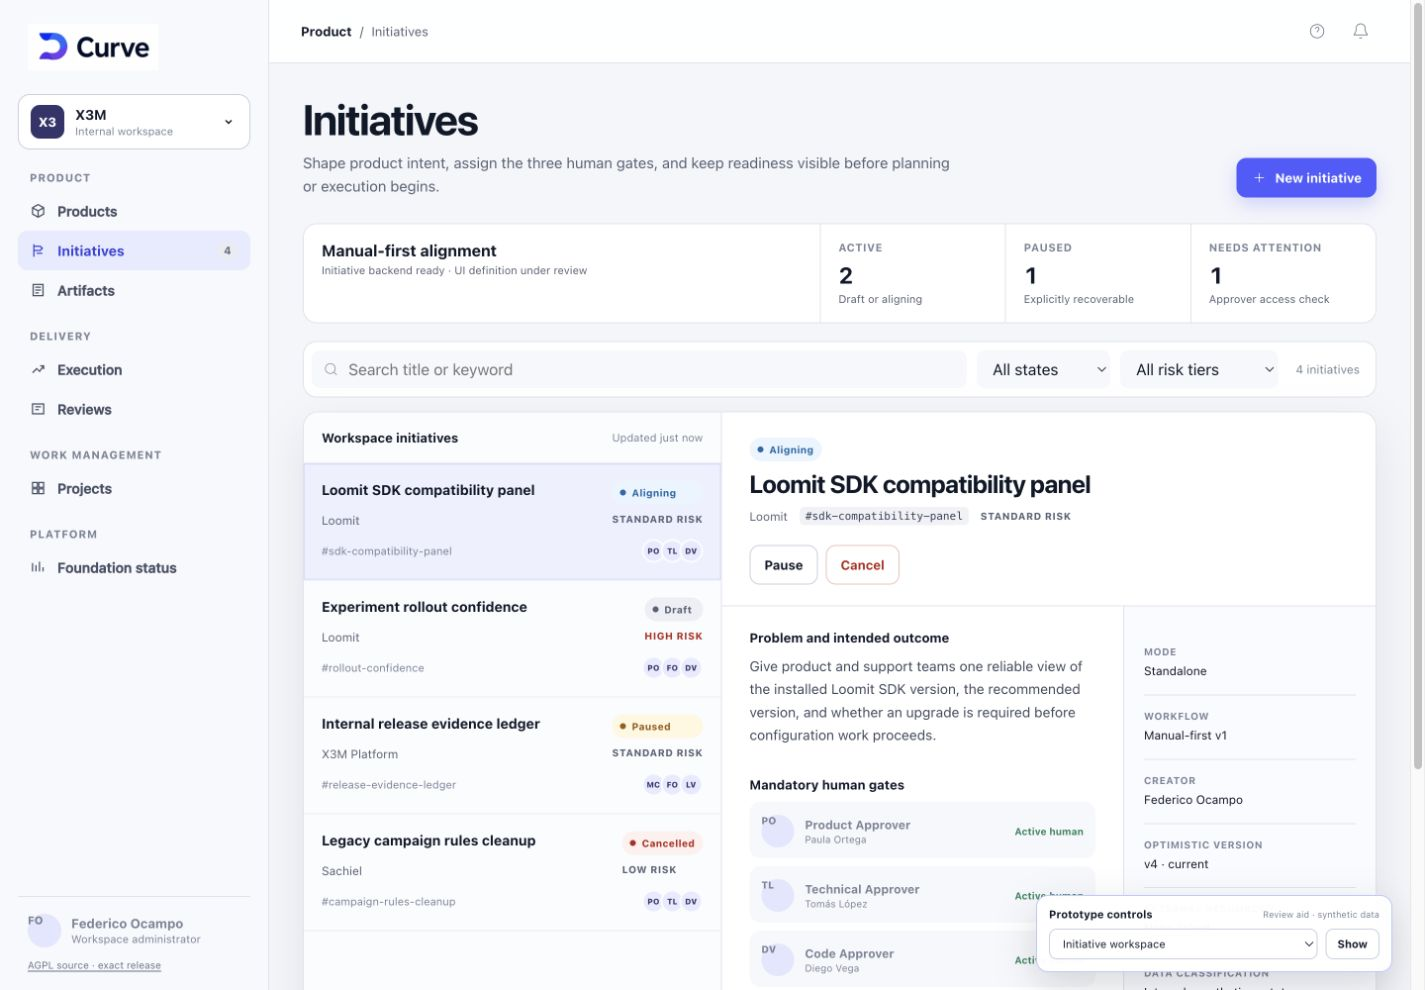
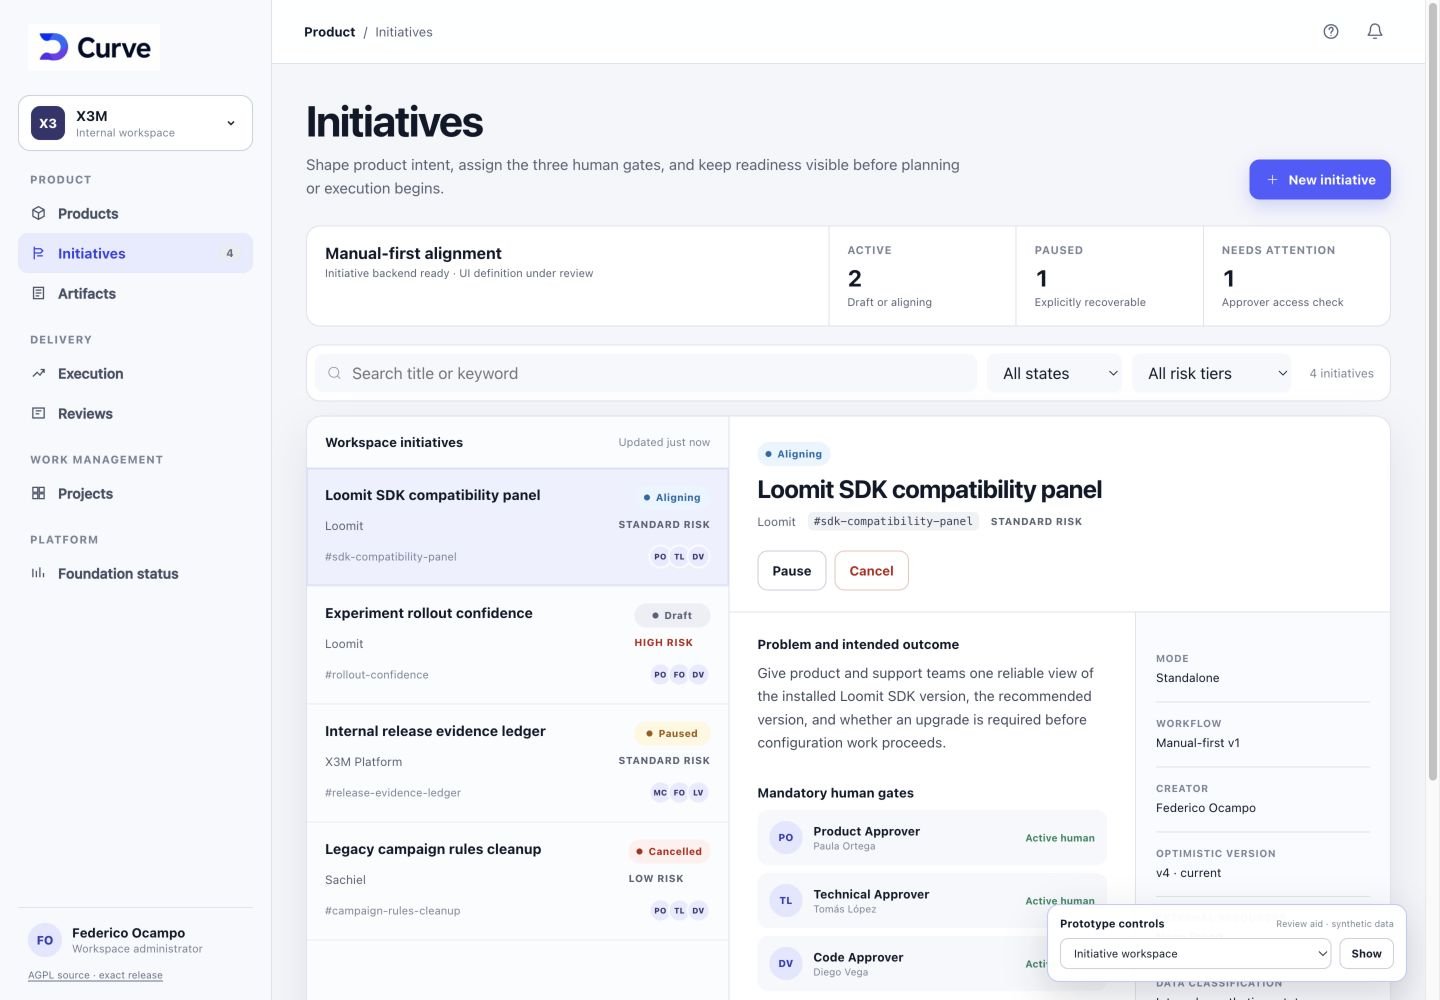
fix(curve): resolve M1-01B UX review findings

diff --git a/docs/design/prototypes/m1-01b-initiative-shell/index.html b/docs/design/prototypes/m1-01b-initiative-shell/index.html
@@ -142,10 +142,11 @@
       }
       .sidebar-footer { margin-top: auto; padding: 15px 10px 0; border-top: 1px solid var(--line); }
       .identity { display: flex; align-items: center; gap: 10px; }
-      .avatar { display: grid; place-items: center; width: 34px; height: 34px; color: #353db1; background: #e2e6ff; border-radius: 50%; font-size: 12px; font-weight: 800; }
-      .identity strong, .identity span { display: block; }
-      .identity strong { font-size: 13px; }
-      .identity span { margin-top: 2px; color: var(--quiet); font-size: 11px; }
+      .avatar { display: inline-flex; flex: 0 0 34px; align-items: center; justify-content: center; width: 34px; height: 34px; margin: 0; color: #353db1; background: #e2e6ff; border-radius: 50%; font-size: 12px; font-weight: 800; line-height: 1; text-align: center; }
+      .identity-copy, .identity-copy strong, .identity-copy span { display: block; }
+      .identity-copy { min-width: 0; }
+      .identity-copy strong { overflow: hidden; font-size: 13px; text-overflow: ellipsis; white-space: nowrap; }
+      .identity-copy span { margin-top: 2px; color: var(--quiet); font-size: 11px; }
       .source-link { display: inline-flex; margin-top: 12px; color: #697189; font-size: 10px; text-underline-offset: 2px; }
 
       .main { min-width: 0; }
@@ -176,7 +177,7 @@
         border-radius: 10px;
       }
       .icon-button:hover { background: #f2f4f8; border-color: var(--line); }
-      .icon-button svg { width: 18px; height: 18px; }
+      .icon-button svg { width: 18px; height: 18px; stroke-linecap: round; stroke-linejoin: round; stroke-width: 1.8; }
 
       .page { max-width: 1580px; margin: 0 auto; padding: 34px 34px 56px; }
       .page-heading { display: flex; align-items: flex-end; justify-content: space-between; gap: 24px; margin-bottom: 26px; }
@@ -286,6 +287,7 @@
       .badge {
         display: inline-flex;
         align-items: center;
+        justify-content: center;
         gap: 6px;
         min-height: 24px;
         padding: 4px 8px;
@@ -293,8 +295,10 @@
         font-size: 10px;
         font-weight: 750;
         letter-spacing: 0.025em;
+        line-height: 1;
         white-space: nowrap;
       }
+      .initiative-row > .badge { min-width: 76px; justify-self: end; align-self: start; }
       .badge::before { content: ""; width: 6px; height: 6px; border-radius: 50%; background: currentColor; }
       .badge.draft { color: #596174; background: #eceff4; }
       .badge.aligning { color: var(--blue); background: var(--blue-soft); }
@@ -327,10 +331,11 @@
         background: #f7f8fb;
         border-radius: 11px;
       }
-      .gate-avatar { display: grid; place-items: center; width: 33px; height: 33px; color: #353db1; background: #e2e6ff; border-radius: 50%; font-size: 10px; font-weight: 800; }
-      .gate strong, .gate span { display: block; }
-      .gate strong { font-size: 12px; }
-      .gate span { margin-top: 2px; color: var(--quiet); font-size: 10px; }
+      .gate-avatar { display: inline-flex; flex: 0 0 33px; align-items: center; justify-content: center; width: 33px; height: 33px; margin: 0; color: #353db1; background: #e2e6ff; border-radius: 50%; font-size: 10px; font-weight: 800; line-height: 1; text-align: center; }
+      .gate-copy, .gate-copy strong, .gate-copy span { display: block; }
+      .gate-copy { min-width: 0; }
+      .gate-copy strong { font-size: 12px; }
+      .gate-copy span { margin-top: 2px; color: var(--quiet); font-size: 10px; }
       .gate .active-human { color: var(--green); font-size: 10px; font-weight: 700; }
       .timeline { margin: 0; padding: 0; list-style: none; }
       .timeline li { position: relative; padding: 0 0 19px 25px; color: var(--muted); font-size: 12px; line-height: 1.45; }
@@ -378,6 +383,7 @@
       .field textarea { min-height: 118px; resize: vertical; padding: 10px 11px; line-height: 1.5; }
       .field input:hover, .field textarea:hover, .field select:hover { border-color: #aab2c2; }
       .form-note { margin: 18px 0 0; padding: 13px 14px; color: #4d5569; background: #f2f4ff; border-radius: 10px; font-size: 11px; line-height: 1.5; }
+      .form-error { margin: 10px 0 0; padding: 11px 13px; color: var(--red); background: var(--red-soft); border: 1px solid #f4c7c2; border-radius: 10px; font-size: 11px; font-weight: 650; line-height: 1.45; }
       .form-actions { display: flex; justify-content: flex-end; gap: 9px; margin-top: 24px; padding-top: 20px; border-top: 1px solid var(--line); }
       .field-error { display: none; margin-top: 5px; color: var(--red); font-size: 10px; }
       .field.invalid .field-error { display: block; }
@@ -504,7 +510,7 @@
           </div>
         </nav>
         <footer class="sidebar-footer">
-          <div class="identity"><span class="avatar" aria-hidden="true">FO</span><span><strong>Federico Ocampo</strong><span>Workspace administrator</span></span></div>
+          <div class="identity"><span class="avatar" aria-hidden="true">FO</span><span class="identity-copy"><strong>Federico Ocampo</strong><span>Workspace administrator</span></span></div>
           <a class="source-link" href="https://github.com/faocampo/plane">AGPL source · exact release</a>
         </footer>
       </aside>
@@ -513,7 +519,7 @@
         <header class="topbar">
           <div class="crumbs"><strong>Product</strong><span aria-hidden="true">/</span><span>Initiatives</span></div>
           <div class="top-actions">
-            <button class="icon-button" type="button" aria-label="Help"><svg aria-hidden="true" viewBox="0 0 24 24" fill="none" stroke="currentColor"><circle cx="12" cy="12" r="9"/><path d="M9.8 9a2.4 2.4 0 1 1 3.9 1.9c-1 .7-1.7 1.2-1.7 2.6M12 17h.01"/></svg></button>
+            <button class="icon-button" type="button" aria-label="Help"><svg aria-hidden="true" viewBox="0 0 24 24" fill="none" stroke="currentColor"><circle cx="12" cy="12" r="9"/><path d="M9.6 9.2a2.6 2.6 0 1 1 4.35 1.92C12.86 12 12 12.55 12 14"/><circle cx="12" cy="17.25" r="0.8" fill="currentColor" stroke="none"/></svg></button>
             <button class="icon-button" type="button" aria-label="Notifications"><svg aria-hidden="true" viewBox="0 0 24 24" fill="none" stroke="currentColor"><path d="M18 8a6 6 0 0 0-12 0c0 7-3 7-3 9h18c0-2-3-2-3-9M10 21h4"/></svg></button>
           </div>
         </header>
@@ -559,14 +565,15 @@
             <div class="field full"><label for="title">Title <span>Required</span></label><input id="title" name="title" autocomplete="off" value="Improve experiment rollout confidence" required aria-describedby="title-error" /><span class="field-error" id="title-error">Enter a title.</span></div>
             <div class="field"><label for="product">Product <span>Active only</span></label><select id="product" name="product"><option>Loomit</option><option>X3M Platform</option><option>Sachiel</option></select></div>
             <div class="field"><label for="keyword">Keyword <span>Workspace unique</span></label><input id="keyword" name="keyword" autocomplete="off" value="rollout-confidence" pattern="[A-Za-z0-9][A-Za-z0-9-]{0,49}" required aria-describedby="keyword-error" /><span class="field-error" id="keyword-error">Use letters, numbers, and hyphens.</span></div>
-            <div class="field"><label for="risk">Risk tier</label><select id="risk" name="risk"><option>STANDARD</option><option>LOW</option><option>HIGH</option></select></div>
+            <div class="field"><label for="risk">Risk tier</label><select id="risk" name="risk" aria-describedby="approver-rule"><option>STANDARD</option><option>LOW</option><option>HIGH</option></select></div>
             <div class="field"><label for="mode">Mode</label><select id="mode" name="mode"><option>STANDALONE</option><option disabled>ROADMAP — available in M2</option></select></div>
             <div class="field full"><label for="description">Problem and intended outcome <span>Required · Markdown</span></label><textarea id="description" name="description" required aria-describedby="description-error">Reduce uncertainty when product teams move validated experiments toward a staged rollout, while keeping every human decision and rollback condition visible.</textarea><span class="field-error" id="description-error">Describe the problem and intended outcome.</span></div>
-            <div class="field"><label for="product-approver">Product Approver</label><select id="product-approver"><option>Paula Ortega · PO</option><option>Federico Ocampo · CTO</option></select></div>
-            <div class="field"><label for="technical-approver">Technical Approver</label><select id="technical-approver"><option>Tomás López · TL</option><option>Federico Ocampo · CTO</option></select></div>
-            <div class="field full"><label for="code-approver">Code Approver</label><select id="code-approver"><option>Diego Vega · Dev</option><option>Federico Ocampo · CTO</option></select></div>
+            <div class="field"><label for="product-approver">Product Approver</label><select id="product-approver" aria-describedby="approver-rule approver-error"><option value="paula-ortega" data-initials="PO" data-name="Paula Ortega">Paula Ortega · PO</option><option value="federico-ocampo" data-initials="FO" data-name="Federico Ocampo">Federico Ocampo · CTO</option></select></div>
+            <div class="field"><label for="technical-approver">Technical Approver</label><select id="technical-approver" aria-describedby="approver-rule approver-error"><option value="tomas-lopez" data-initials="TL" data-name="Tomás López">Tomás López · TL</option><option value="federico-ocampo" data-initials="FO" data-name="Federico Ocampo">Federico Ocampo · CTO</option></select></div>
+            <div class="field full"><label for="code-approver">Code Approver</label><select id="code-approver" aria-describedby="approver-rule approver-error"><option value="diego-vega" data-initials="DV" data-name="Diego Vega">Diego Vega · Dev</option><option value="federico-ocampo" data-initials="FO" data-name="Federico Ocampo">Federico Ocampo · CTO</option></select></div>
           </div>
-          <p class="form-note">STANDARD and HIGH risk require three distinct active humans. Creating the Initiative records the initial DRAFT state and its three gate assignments atomically.</p>
+          <p class="form-note" id="approver-rule">Only active humans are listed. STANDARD and HIGH risk require a different person for each gate. Creating the Initiative records the initial DRAFT state and all three assignments atomically.</p>
+          <p class="form-error" id="approver-error" role="alert" hidden>Choose three different people for Product, Technical, and Code approval at STANDARD or HIGH risk.</p>
           <div class="form-actions"><button class="button" id="cancel-create" type="button">Cancel</button><button class="button primary" type="submit">Create initiative</button></div>
         </form>
       </section>
@@ -606,7 +613,7 @@
 
       let selectedId = "init-1";
       let previousFocus = null;
-      const el = Object.fromEntries(["initiative-rows","detail","workbench","state-panel","search","state-filter","risk-filter","result-count","active-count","paused-count","new-initiative","drawer-backdrop","close-drawer","cancel-create","initiative-form","title","keyword","description","cancel-dialog","keep-initiative","confirm-cancel","scenario","show-scenario","live-region"].map(id => [id, document.getElementById(id)]));
+      const el = Object.fromEntries(["initiative-rows","detail","workbench","state-panel","search","state-filter","risk-filter","result-count","active-count","paused-count","new-initiative","drawer-backdrop","close-drawer","cancel-create","initiative-form","title","keyword","description","product","risk","product-approver","technical-approver","code-approver","approver-error","cancel-dialog","keep-initiative","confirm-cancel","scenario","show-scenario","live-region"].map(id => [id, document.getElementById(id)]));
 
       const label = (state) => state.charAt(0) + state.slice(1).toLowerCase();
       const announce = (message) => { el["live-region"].textContent = ""; window.setTimeout(() => el["live-region"].textContent = message, 20); };
@@ -637,7 +644,7 @@
         return `<header class="detail-head"><div class="detail-headline"><div><span class="badge ${item.state.toLowerCase()}">${label(item.state)}</span><h2>${item.title}</h2><div class="detail-sub"><span>${item.product}</span><code>#${item.keyword}</code><span class="risk ${item.risk === "HIGH" ? "high" : ""}">${item.risk} risk</span></div></div></div><div class="detail-actions">${primary}${pause}${cancel}</div></header>
           <div class="detail-body"><div class="detail-main">
             <section class="section"><h3>Problem and intended outcome</h3><p class="description">${item.description}</p></section>
-            <section class="section"><h3>Mandatory human gates</h3><div class="gate-list">${item.approvers.map(([initials,name,role]) => `<div class="gate"><span class="gate-avatar" aria-hidden="true">${initials}</span><span><strong>${role}</strong><span>${name}</span></span><span class="active-human">Active human</span></div>`).join("")}</div></section>
+            <section class="section"><h3>Mandatory human gates</h3><div class="gate-list">${item.approvers.map(([initials,name,role]) => `<div class="gate"><span class="gate-avatar" aria-hidden="true">${initials}</span><span class="gate-copy"><strong>${role}</strong><span>${name}</span></span><span class="active-human">Active human</span></div>`).join("")}</div></section>
             <section class="section"><h3>Recent history</h3><ol class="timeline"><li><strong>${item.updated}</strong><span>Federico Ocampo · ${item.time}</span></li><li><strong>Gate assignments verified</strong><span>Curve policy · ${item.time}</span></li><li><strong>Initiative created</strong><span>Federico Ocampo · 29 Aug 2026</span></li></ol></section>
           </div><aside class="detail-aside"><dl><div class="fact"><dt>Mode</dt><dd>Standalone</dd></div><div class="fact"><dt>Workflow</dt><dd>${item.state === "DRAFT" ? "Pins after refinement" : "Manual-first v1"}</dd></div><div class="fact"><dt>Creator</dt><dd>Federico Ocampo</dd></div><div class="fact"><dt>Optimistic version</dt><dd>v${item.state === "DRAFT" ? 2 : 4} · current</dd></div><div class="fact"><dt>External resources</dt><dd>None linked</dd></div><div class="fact"><dt>Data classification</dt><dd>Internal · synthetic prototype</dd></div></dl></aside></div>`;
       }
@@ -726,6 +733,27 @@
         if (!event.shiftKey && document.activeElement === last) { event.preventDefault(); first.focus(); }
       }
 
+      function validateApprovers({ announceError = false } = {}) {
+        const selects = [el["product-approver"], el["technical-approver"], el["code-approver"]];
+        const personIds = selects.map(select => select.value);
+        const elevatedRisk = ["STANDARD", "HIGH"].includes(el.risk.value);
+        const hasDuplicates = elevatedRisk && new Set(personIds).size !== personIds.length;
+
+        selects.forEach((select, index) => {
+          const duplicated = hasDuplicates && personIds.indexOf(personIds[index]) !== personIds.lastIndexOf(personIds[index]);
+          select.closest(".field").classList.toggle("invalid", duplicated);
+          select.setAttribute("aria-invalid", String(duplicated));
+        });
+        el["approver-error"].hidden = !hasDuplicates;
+        if (hasDuplicates && announceError) announce("Choose three different active humans for Standard or High risk");
+        return !hasDuplicates;
+      }
+
+      function selectedApprover(select, role) {
+        const option = select.selectedOptions[0];
+        return [option.dataset.initials, option.dataset.name, role];
+      }
+
       el["new-initiative"].addEventListener("click", openDrawer);
       el["close-drawer"].addEventListener("click", closeDrawer);
       el["cancel-create"].addEventListener("click", closeDrawer);
@@ -734,6 +762,7 @@
       el["confirm-cancel"].addEventListener("click", () => { closeCancelDialog(); changeState("CANCELLED", "Initiative cancelled"); });
       el["cancel-dialog"].addEventListener("click", event => { if (event.target === el["cancel-dialog"]) closeCancelDialog(); });
       [el.search, el["state-filter"], el["risk-filter"]].forEach(control => control.addEventListener("input", render));
+      [el.risk, el["product-approver"], el["technical-approver"], el["code-approver"]].forEach(control => control.addEventListener("change", () => validateApprovers()));
       el["show-scenario"].addEventListener("click", () => showState(el.scenario.value));
       el["initiative-form"].addEventListener("submit", event => {
         event.preventDefault();
@@ -746,7 +775,11 @@
           if (invalid) valid = false;
         });
         if (!valid) { fields.find(field => field.closest(".field").classList.contains("invalid"))?.focus(); announce("Review the highlighted fields"); return; }
-        const newItem = { id: `init-${Date.now()}`, title: el.title.value.trim(), keyword: el.keyword.value.trim(), product: document.getElementById("product").value, state: "DRAFT", risk: document.getElementById("risk").value, description: el.description.value.trim(), approvers: [["PO","Paula Ortega","Product Approver"],["TL","Tomás López","Technical Approver"],["DV","Diego Vega","Code Approver"]], updated: "Initiative created", time: "Just now" };
+        if (!validateApprovers({ announceError: true })) {
+          [el["product-approver"], el["technical-approver"], el["code-approver"]].find(select => select.getAttribute("aria-invalid") === "true")?.focus();
+          return;
+        }
+        const newItem = { id: `init-${Date.now()}`, title: el.title.value.trim(), keyword: el.keyword.value.trim(), product: el.product.value, state: "DRAFT", risk: el.risk.value, description: el.description.value.trim(), approvers: [selectedApprover(el["product-approver"], "Product Approver"), selectedApprover(el["technical-approver"], "Technical Approver"), selectedApprover(el["code-approver"], "Code Approver")], updated: "Initiative created", time: "Just now" };
         initiatives.unshift(newItem); selectedId = newItem.id; closeDrawer(); showWorkspace(); announce(`${newItem.title} created in Draft`);
       });
 

diff --git a/docs/technical/ux-m1-01b-initiative-shell.md b/docs/technical/ux-m1-01b-initiative-shell.md
@@ -179,7 +179,7 @@ of the production UI.
 | T1 | Identify the product and explain where Plane-backed work lives | Reviewer identifies Curve as primary and Work management as the Plane-backed component |
 | T2 | Find `SDK Compatibility` using search or filters | Correct Initiative is selected and its Product/state/risk are understandable |
 | T3 | Review all three human gates | Product, Technical, and Code approvers are visible with their roles |
-| T4 | Create a Standard-risk Initiative | Required data is understandable; result appears selected in Draft |
+| T4 | At Standard risk, assign the same person to two gates, attempt creation, then correct the assignments and create the Initiative | Duplicate people are identified and creation is blocked; three distinct people produce a selected Draft with the chosen assignments |
 | T5 | Submit invalid create data | Inline validation, focus, and status announcement identify recovery |
 | T6 | Accept refinement, pause, and resume | State changes and available actions remain consistent with the lifecycle |
 | T7 | Start cancellation and keep the Initiative | Confirmation is clear and focus returns without changing state |
@@ -194,15 +194,34 @@ of the production UI.
 | Desktop render | [Desktop review capture](../../.impeccable/review/desktop.png) (default Initiative list/detail state at the 1440 by 1000 review viewport) |
 | Mobile render | [Mobile review capture](../../.impeccable/review/mobile.png) (default Initiative state at the 390 by 844 review viewport) |
 | Responsive layout | No horizontal overflow at either review width; the mobile shell, portfolio, filters, list/detail stack, drawer, and dialog remain within the viewport |
-| Creation | Required-field validation, accepted keyword-format validation, focus placement, status announcement, successful Draft creation, selection, and count update exercised |
+| Creation | Required-field validation, accepted keyword-format validation, elevated-risk three-person separation, selection-derived gate assignments, focus placement, status announcement, successful Draft creation, selection, and count update exercised |
 | Lifecycle | `DRAFT -> ALIGNING -> PAUSED -> ALIGNING -> CANCELLED` exercised; cancellation confirmation displayed and terminal actions removed |
 | Recovery states | Permission back-navigation, safe-error retry, and empty-state create action exercised |
 | Browser diagnostics | No console warning or error recorded during the exercised paths |
 | Mechanical detector | Regex fallback completed because optional HTML parser modules were unavailable; its Inter warning is an accepted continuation of the approved M0-S4 Curve shell typography rather than a new visual-world decision |
-| Finish review | Prescribed in-thread fallback used because collaboration slots were occupied; initial `fix` findings for a selected-row side stripe and portfolio eyebrow were resolved in recaptures; verdict `ship` |
+| Finish review | Prescribed in-thread fallback used because collaboration slots were occupied; the correction pass rechecked the complete create path, 1440 px desktop and 390 px mobile renders, state-badge geometry, gate/footer initials, and Help icon; no additional blocking defect found |
 
 The finish-review verdict means that the artifact is ready for accountable manual
 UX review. It does not populate the approval record or authorize Plane code.
+
+## Manual review iteration 1
+
+Federico Ocampo reported T1, T2, T3, and T5 as passing on 2026-08-29. T4 was
+reported as passing with pending validation; T6 and the remaining tasks have not
+yet received a final result. The five annotated findings from this review remain
+part of the exact-commit gate until Federico retests the corrected prototype.
+
+| Finding | Reported issue | Correction in this iteration | Retest state |
+| --- | --- | --- | --- |
+| MR-01 | The Standard/High three-distinct-human rule did not block creation | Creation now rejects duplicate people, identifies every duplicated selector, focuses the first invalid selector, announces the recovery, and derives the created gate assignments from the corrected selections | Required |
+| MR-02 | The `Paused` list badge had inconsistent alignment and size | List-state badges now use one centered 76 px geometry and align to the same row edge | Required |
+| MR-03 | Initials were misaligned in mandatory-gate avatars | Gate-avatar layout is isolated from descriptive-text selectors and centers initials with explicit flex geometry and line height | Required |
+| MR-04 | Initials were misaligned in the signed-in-user avatar | Footer identity copy has a dedicated selector; the avatar keeps explicit centered geometry | Required, including Federico's pending validations |
+| MR-05 | The Help icon required verification | The control retains the accessible name `Help` and uses an explicit circle, question curve, and visible dot with consistent authored stroke geometry | Required |
+
+This correction record documents prototype behavior and review evidence. It does
+not mark UX-006-M1-01B (clickable Initiative prototype and task review) or
+UX-007-M1-01B (work-package-linked Initiative screen contract) approved.
 
 ## Review decision record
 
